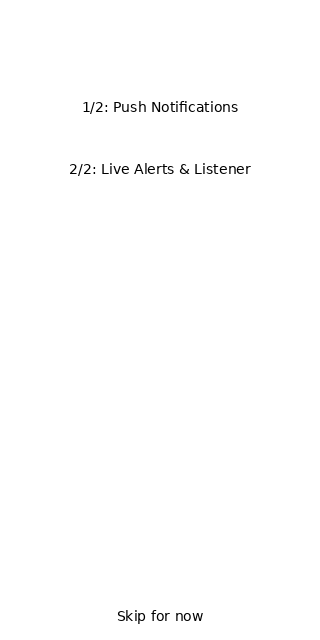
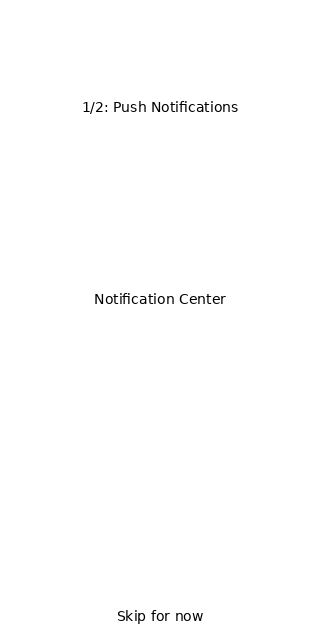
ci: variant-aware step-7 identity (API33 push / API30 wrapped live-alerts), real fixtures + negative tests

diff --git a/ci/test_shot.py b/ci/test_shot.py
@@ -95,6 +95,30 @@ class T(unittest.TestCase):
     def test_stop_other_permission_with_deny_never_tapped(self):
         res, d, _ = run(graph(mic={"png": "synth_other_perm_deny.png"}))
         self.assertEqual(res[0], "FAIL"); self.assertEqual([t for t in d.taps if t[0] == "mic"], [])
+    def test_step7_api30_real_variant_wrapped_heading_passes(self):
+        # REAL API30 capture: "2/2: Live Alerts &" / "Listener" (wrapped); one Skip at (160,618).
+        res, d, logs = run(graph(s6={"png": "step6_api30_real.png"}, s7={"png": "step7_api30_real.png"}))
+        self.assertEqual(res[0], "STOP", res); self.assertTrue(any("variant: 2/2 Live Alerts" in l for l in logs))
+    def test_step7_api33_push_variant_still_passes(self):
+        res, d, logs = run(graph())
+        self.assertEqual(res[0], "STOP", res); self.assertTrue(any("variant: 1/2 Push" in l for l in logs))
+    def test_step7_api33_real_push_variant_passes(self):
+        res, d, logs = run(graph(s7={"png": "step7_api33_real.png"}))
+        self.assertEqual(res[0], "STOP", res); self.assertTrue(any("variant: 1/2 Push" in l for l in logs))
+    def test_step7_synthetic_wrapped_live_variant(self):
+        res, _, _ = run(graph(s7={"png": "synth_step7_live_wrapped.png"})); self.assertEqual(res[0], "STOP", res)
+    def test_step7_stops_on_duplicate_live_heading(self):
+        res, d, _ = run(graph(s7={"png": "synth_step7_live_dup.png"}))
+        self.assertEqual(res[0], "FAIL"); self.assertIn("step 7 identity ambiguous", res[1])
+    def test_step7_stops_on_listener_alone(self):
+        res, d, _ = run(graph(s7={"png": "synth_step7_listener_only.png"}))
+        self.assertEqual(res[0], "FAIL"); self.assertIn("ambiguous", res[1])
+    def test_step7_stops_when_both_variants_present(self):
+        res, d, _ = run(graph(s7={"png": "synth_step7_both.png"}))
+        self.assertEqual(res[0], "FAIL"); self.assertIn("ambiguous", res[1])
+    def test_step7_stops_on_unrelated_screen(self):
+        res, d, _ = run(graph(s7={"png": "synth_notes_app.png"}))
+        self.assertEqual(res[0], "FAIL"); self.assertIn("ambiguous", res[1])
     def test_stop_if_no_dialog_appears(self):
         res, d, _ = run(graph(s5={"taps": [(MIC_ROW, "s5")]}))
         self.assertEqual(res[0], "FAIL"); self.assertIn("foreground", res[1] + "foreground")

diff --git a/ci/shot_lib.py b/ci/shot_lib.py
@@ -73,6 +73,20 @@ class Shots:
         if self.find(png, phrase, True):
             raise Stop("%r unexpectedly present on %s" % (phrase, os.path.basename(png)))
 
+    def step7_identity(self, png):
+        """Step 7 has two real variants (source: OnboardingScreen Step 7, AnimatedContent on notifGranted):
+        API 33+ shows "1/2: Push Notifications"; API <33 has no POST_NOTIFICATIONS runtime permission, so
+        notifGranted is true and it shows "2/2: Live Alerts & Listener" (the title wraps over two lines).
+        Exactly ONE variant must be present; the other variant's heading must be absent."""
+        push = self.find(png, "push notifications", False)
+        live = self.find(png, "live alerts", False)
+        listener = self.find(png, "listener", True)
+        if len(push) == 1 and not live and not listener:
+            self.log("step 7 variant: 1/2 Push Notifications (API 33+)"); return "push"
+        if len(live) == 1 and len(listener) == 1 and not push:
+            self.log("step 7 variant: 2/2 Live Alerts & Listener (API <33: no runtime notification permission)"); return "live"
+        raise Stop("step 7 identity ambiguous on %s (push=%d live=%d listener=%d)" % (os.path.basename(png), len(push), len(live), len(listener)))
+
     def screen(self, name, kind, must, absent=(), loose=()):
         png = self.capture(name, kind)
         for p in must:
@@ -140,7 +154,10 @@ def _run(s, dev, log):
         before = s.tap_phrase(png, "skip for now", "app")
         dev.sleep(2)
         png = s.changed(before, "c3_" + label.replace(" ", "_"), "app")
-        s.unique(png, heading)
+        if heading == "push notifications":
+            s.step7_identity(png)
+        else:
+            s.unique(png, heading)
         s.absent(png, "microphone access")
         log("reached %s (%s)" % (label, heading))
         if last:

diff --git a/ci/make_synth.py b/ci/make_synth.py
@@ -19,8 +19,12 @@ S = {
  "synth_mic_both_labels.png": [("Allow Roxxy to record", 160, 300, 16), ("audio?", 160, 325, 16), ("Only this time", 160, 420, 15), ("Don't allow", 160, 460, 15), ("Deny", 160, 500, 15)],
  "synth_mic_no_refusal.png": [("Allow Roxxy to record", 160, 300, 16), ("audio?", 160, 325, 16), ("While using the app", 160, 380, 15), ("Only this time", 160, 420, 15)],
  "synth_other_perm_deny.png": [("Allow Camera to take", 160, 300, 16), ("pictures?", 160, 325, 16), ("Deny", 160, 460, 15)],
+ "synth_step7_live_dup.png": [("2/2: Live Alerts &", 160, 108, 14), ("Listener", 160, 128, 14), ("2/2: Live Alerts &", 160, 300, 14), SKIP],
+ "synth_step7_listener_only.png": [("Listener", 160, 128, 14), ("Notes", 160, 300, 14), SKIP],
+ "synth_step7_both.png": [("1/2: Push Notifications", 160, 108, 14), ("2/2: Live Alerts &", 160, 170, 14), ("Listener", 160, 190, 14), SKIP],
+ "synth_step7_live_wrapped.png": [("2/2: Live Alerts &", 160, 108, 14), ("Listener", 160, 128, 14), SKIP],
  "synth_step6.png": [("Roxxy Virtual Keyboard", 160, 108, 14), ("Automated Typing", 160, 300, 14), SKIP],
- "synth_step7.png": [("1/2: Push Notifications", 160, 108, 14), ("2/2: Live Alerts & Listener", 160, 170, 14), SKIP],
+ "synth_step7.png": [("1/2: Push Notifications", 160, 108, 14), ("Notification Center", 160, 300, 14), SKIP],
  "synth_key.png": [("Bring your own Gemini key", 160, 108, 14), ("Verify Key", 160, 590, 15)],
  # negatives: words match a target but the screen is something else
  "synth_other_perm_dialog.png": [("Allow Camera to take", 160, 300, 16), ("pictures?", 160, 325, 16), ("Don't allow", 160, 460, 15)],

diff --git a/ci/e2e_harness_test.py b/ci/e2e_harness_test.py
@@ -110,6 +110,12 @@ class E2E(unittest.TestCase):
         g = graph(); g["states"]["mic"].update(png="synth_mic_dialog_deny.png")
         p, out, log = self.run_harness(g)
         self.assertEqual(p.returncode, 0, p.stdout + log); self.assertIn("tap 'deny'", log); self.assertIn("RESULT: STOP", log)
+    def test_api30_real_step7_variant_full_entrypoint(self):
+        g = graph(); g["states"]["s6"].update(png="step6_api30_real.png"); g["states"]["s7"].update(png="step7_api30_real.png")
+        p, out, log = self.run_harness(g)
+        self.assertEqual(p.returncode, 0, p.stdout + log); self.assertIn("variant: 2/2 Live Alerts", log); self.assertIn("RESULT: STOP", log)
+    def test_step7_ambiguous_propagates(self):
+        self._fail(lambda s: s["s7"].update(png="synth_step7_both.png"), "step 7 identity ambiguous")
     def test_capture_failure_propagates(self):
         self._fail(lambda s: s["s6"].update(shot_empty=True), "screenshot capture failed")
     def test_stale_capture_propagates(self):
